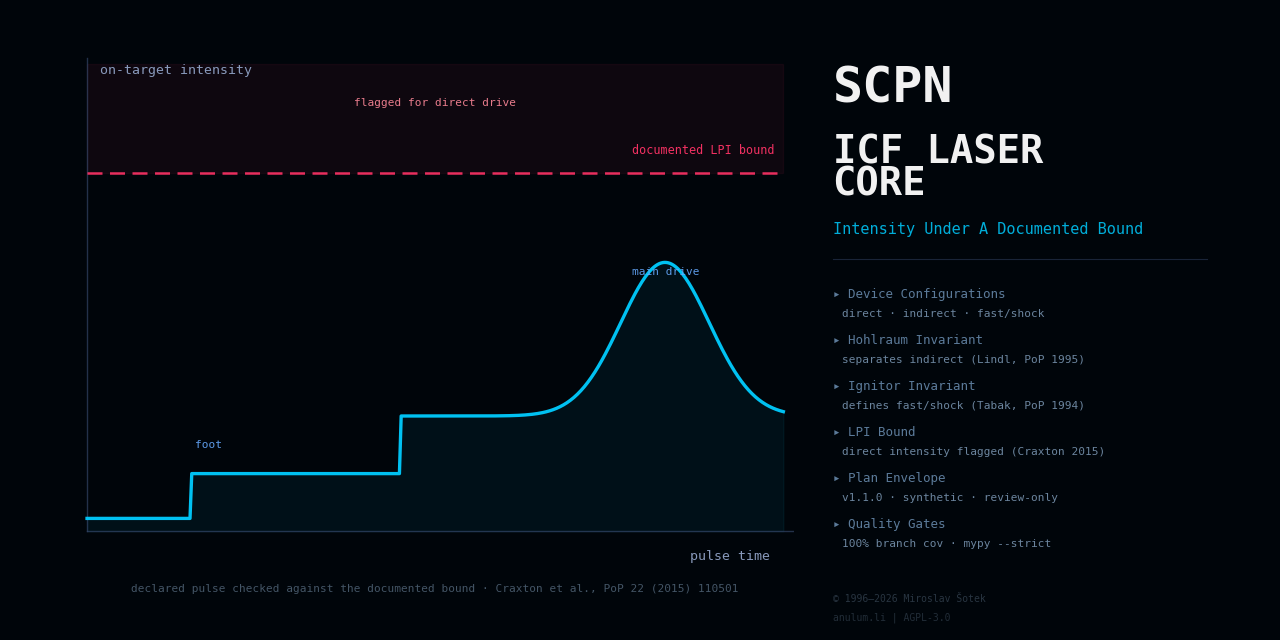
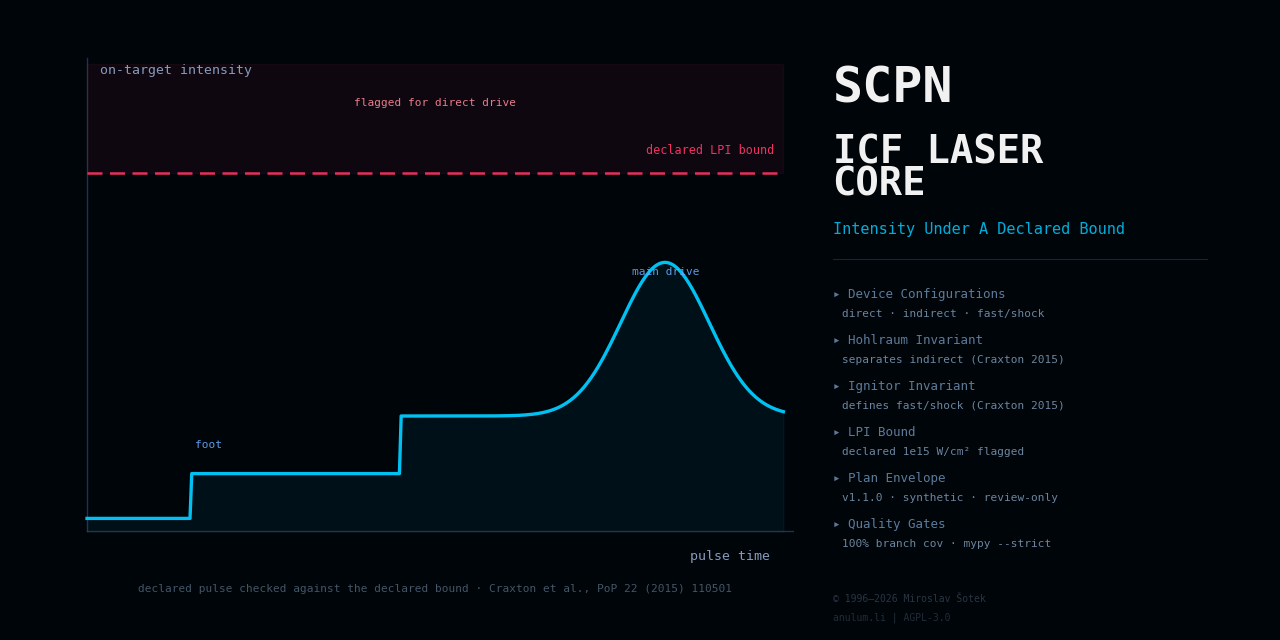
docs(configuration): bind the drive-scheme credits to the filed Craxton review
The configuration and parameter modules, ADR 0002, VALIDATION and the
header artwork credited the hohlraum and ignitor-pulse invariants to
Lindl, Phys. Plasmas 2 (1995) 3933, and Tabak et al., Phys. Plasmas 1
(1994) 1626, neither of which is on file, and said that laser-plasma
instabilities "dominate" above 10^15 W/cm^2, crediting that to the
filed Craxton et al., Phys. Plasmas 22 (2015) 110501.

Pages of the filed review (accepted manuscript, text read):
- PDF p. 8: indirect drive heats the inside of an enclosure known as a
  hohlraum;
- PDF p. 261 (Sec. XIV): fast ignition separates the compression and
  ignition phases;
- PDF p. 285 (Sec. XV): shock ignition adds a high-intensity spike to a
  hot-spot pulse;
- PDF p. 20 (Sec. III A): an ignition design at a peak intensity of
  8 x 10^14 W/cm^2; PDF p. 296: stimulated Raman backscatter of about 8 %
  at 0.9 x 10^15 and 36 % at 8 x 10^15 W/cm^2.

The review prints no single instability bound, so the 10^15 W/cm^2
bound is named declared and the printed values are quoted beside it;
the finding says "declared direct-drive" and its test asserts it. The
invariants cite the pages above. ADR 0002 gains a dated amendment. The
header labels follow and the three PNGs are regenerated (byte-identical
regeneration from the unchanged generator first; images viewed, a
clipped label shortened). No invariant, value or check changes.

Verification: ruff, format and mypy strict clean; targeted tests
[…]

diff --git a/src/scpn_icf_laser_core/configuration.py b/src/scpn_icf_laser_core/configuration.py
@@ -10,15 +10,22 @@
 
 A :class:`DeviceConfiguration` composes a validated laser driver and
 target declaration under exactly one of the three registry identifiers
-this repository owns. The drive-scheme class invariants are hard: the
-hohlraum separates indirect from direct drive (Lindl, PoP 2 (1995)
-3933) and the ignitor pulse defines fast/shock ignition (Tabak et al.,
-PoP 1 (1994) 1626). A direct-drive intensity above the documented
-laser-plasma-instability bound is flagged (Craxton et al., PoP 22
-(2015) 110501). Serialisation is canonical (sorted keys, no NaN or
-infinity accepted anywhere) and the SHA-256 digest of those bytes
-identifies the exact parameter set. The registry binding is a data pin
-only — this package never imports SCPN Phase Orchestrator code.
+this repository owns. The drive-scheme class invariants are hard. The
+filed review R. S. Craxton et al., Phys. Plasmas 22 (2015) 110501,
+describes indirect drive as heating the inside of an enclosure known as
+a hohlraum (accepted manuscript, PDF p. 8), fast ignition as separating
+the compression and ignition phases with a high-intensity laser (Sec.
+XIV, PDF p. 261), and shock ignition as a hot-spot pulse with an added
+high-intensity spike (Sec. XV, PDF p. 285); Lindl, PoP 2 (1995) 3933,
+and Tabak et al., PoP 1 (1994) 1626, are not on file. A direct-drive
+intensity above a declared 10^15 W/cm^2 bound is flagged; the review
+states no single bound, prints an ignition design at a peak intensity of
+8 x 10^14 W/cm^2 (Sec. III A, PDF p. 20) and reports stimulated Raman
+backscatter rising from about 8 % at 0.9 x 10^15 W/cm^2 to about 36 % at
+8 x 10^15 W/cm^2 (PDF p. 296). Serialisation is canonical (sorted keys,
+no NaN or infinity accepted anywhere) and the SHA-256 digest of those
+bytes identifies the exact parameter set. The registry binding is a data
+pin only — this package never imports SCPN Phase Orchestrator code.
 """
 
 from __future__ import annotations
@@ -180,8 +187,8 @@ class DeviceConfiguration:
         Returns
         -------
         tuple of ConsistencyFinding
-            Advisory findings from the documented estimates; empty when
-            a direct-drive intensity sits below the documented
+            Advisory findings from the declared estimates; empty when
+            a direct-drive intensity sits below the declared
             laser-plasma-instability bound. Findings are advisory
             instruments, not machine claims.
         """
@@ -194,7 +201,7 @@ class DeviceConfiguration:
                         field="driver.driver_energy_mj",
                         message=(
                             f"on-target intensity {intensity:.3g} W/cm^2 "
-                            "exceeds the documented direct-drive "
+                            "exceeds the declared direct-drive "
                             "laser-plasma-instability bound "
                             f"{DIRECT_DRIVE_LPI_BOUND_W_CM2:.0e} W/cm^2"
                         ),

diff --git a/docs/assets/generate_header.py b/docs/assets/generate_header.py
@@ -21,7 +21,7 @@ Outputs (written next to this script):
 - ``repo_header_drive_schemes.png`` — direct, indirect and fast/shock
   ignition side by side.
 - ``repo_header_lpi_bound.png`` — the shaped pulse under the
-  documented laser-plasma-instability bound.
+  declared laser-plasma-instability bound.
 
 Generation-time tooling only: requires ``numpy`` and ``matplotlib``,
 which are deliberately not part of the pinned development lock. Run as
@@ -50,9 +50,9 @@ WIDTH_IN, HEIGHT_IN, DPI = 12.8, 6.4, 100
 
 TITLE_METRICS: list[tuple[str, str]] = [
     ("Device Configurations", "direct · indirect · fast/shock"),
-    ("Hohlraum Invariant", "separates indirect (Lindl, PoP 1995)"),
-    ("Ignitor Invariant", "defines fast/shock (Tabak, PoP 1994)"),
-    ("LPI Bound", "direct intensity flagged (Craxton 2015)"),
+    ("Hohlraum Invariant", "separates indirect (Craxton 2015)"),
+    ("Ignitor Invariant", "defines fast/shock (Craxton 2015)"),
+    ("LPI Bound", "declared 1e15 W/cm² flagged"),
     ("Plan Envelope", "v1.1.0 · synthetic · review-only"),
     ("Quality Gates", "100% branch cov · mypy --strict"),
 ]
@@ -402,7 +402,7 @@ def generate_drive_schemes() -> None:
     ax.text(
         centre,
         -2.0,
-        "hohlraum X-ray bath · Lindl 1995",
+        "hohlraum X-ray bath · Craxton 2015",
         color="#445566",
         fontsize=7.5,
         fontfamily="monospace",
@@ -469,7 +469,7 @@ def generate_drive_schemes() -> None:
     ax.text(
         centre,
         -2.0,
-        "staged drive · Tabak 1994",
+        "staged drive · Craxton",
         color="#445566",
         fontsize=7.5,
         fontfamily="monospace",
@@ -537,7 +537,7 @@ def generate_lpi_bound() -> None:
     ax.text(
         8.9,
         y_bound + 0.3,
-        "documented LPI bound",
+        "declared LPI bound",
         color=RED,
         fontsize=8.5,
         fontfamily="monospace",
@@ -590,14 +590,14 @@ def generate_lpi_bound() -> None:
     ax.text(
         5.0,
         0.75,
-        "declared pulse checked against the documented bound · "
+        "declared pulse checked against the declared bound · "
         "Craxton et al., PoP 22 (2015) 110501",
         color="#445566",
         fontsize=8,
         fontfamily="monospace",
         ha="center",
     )
-    _text_panel(fig, "Intensity Under A Documented Bound")
+    _text_panel(fig, "Intensity Under A Declared Bound")
     _save(fig, plt, "repo_header_lpi_bound.png")
 
 

diff --git a/src/scpn_icf_laser_core/parameters.py b/src/scpn_icf_laser_core/parameters.py
@@ -11,9 +11,9 @@
 The derived quantity implements one standard estimate and nothing more:
 the sphere-averaged on-target intensity ``I = E / (tau 4 pi R^2)``. It
 is a rough consistency instrument with documented applicability bounds
-(direct-drive laser-plasma-instability regime; R. S. Craxton et al.,
-Phys. Plasmas 22 (2015) 110501); no claim about any real machine follows
-from it.
+(a declared direct-drive laser-plasma-instability bound; see the
+configuration module and the filed R. S. Craxton et al., Phys. Plasmas
+22 (2015) 110501); no claim about any real machine follows from it.
 """
 
 from __future__ import annotations

diff --git a/tests/test_configuration.py b/tests/test_configuration.py
@@ -102,6 +102,7 @@ def test_consistency_report_clean_and_finding() -> None:
     findings = hot.consistency_report()
     assert len(findings) == 1
     assert "laser-plasma-instability" in findings[0].message
+    assert "declared direct-drive" in findings[0].message
     indirect = synthetic_configuration(
         "laser_icf_indirect_drive", hohlraum=True, pulse_duration_ns=1.0
     )

diff --git a/docs/adr/0002-device-configuration-model.md b/docs/adr/0002-device-configuration-model.md
@@ -36,16 +36,22 @@ laser-ICF registry configurations this repository owns
    parameter set is a synthetic test fixture.
 3. Hard drive-scheme class invariants: `laser_icf_indirect_drive`
    requires a hohlraum and `laser_icf_direct_drive` forbids one — the
-   presence of the radiation enclosure is what separates the schemes
-   (J. D. Lindl, Phys. Plasmas 2 (1995) 3933);
+   presence of the radiation enclosure is what separates the schemes;
    `laser_icf_fast_or_shock_ignition` requires the separate ignitor
-   pulse that defines it (M. Tabak et al., Phys. Plasmas 1 (1994)
-   1626), and the other two classes forbid it.
+   pulse that defines it, and the other two classes forbid it. The
+   filed review R. S. Craxton et al., Phys. Plasmas 22 (2015) 110501,
+   describes indirect drive through a hohlraum (PDF p. 8), fast
+   ignition as separate compression and ignition phases (Sec. XIV,
+   PDF p. 261) and shock ignition as an added high-intensity spike
+   (Sec. XV, PDF p. 285).
 4. Derived quantity: the sphere-averaged on-target intensity
    ``I = E / (tau 4 pi R^2)``. Advisory finding, reported by
    `consistency_report()` and never clamped: a direct-drive intensity
-   above ``10^15 W/cm^2``, where laser-plasma instabilities dominate
-   (R. S. Craxton et al., Phys. Plasmas 22 (2015) 110501).
+   above a declared ``10^15 W/cm^2`` bound. Craxton et al. state no
+   single bound; they print an ignition design at 8 x 10^14 W/cm^2
+   (Sec. III A, PDF p. 20) and stimulated Raman backscatter rising from
+   about 8 % at 0.9 x 10^15 to about 36 % at 8 x 10^15 W/cm^2
+   (PDF p. 296).
 5. Repository-level `evidence_maturity` = the highest state claimed by
    any capability entry; per-capability states are the authoritative
    claim surface.
@@ -64,3 +70,14 @@ laser-ICF registry configurations this repository owns
   bang-time anchor, safety envelope) build on these types; maturity
   advances per capability only with the evidence the family standard
   requires.
+
+## Amendment 2026-10-31
+
+The class invariants were credited to J. D. Lindl, Phys. Plasmas 2
+(1995) 3933, and M. Tabak et al., Phys. Plasmas 1 (1994) 1626, neither
+of which is on file; they are now bound to pages of the filed Craxton et
+al. (2015) review. The text also said that laser-plasma instabilities
+"dominate" above 10^15 W/cm^2 and credited that to Craxton et al.; the
+review prints no such single bound, so the bound is named declared and
+the printed values beside it are quoted. No invariant, value or check
+changed.

diff --git a/VALIDATION.md b/VALIDATION.md
@@ -81,14 +81,18 @@ What is exercised, all under the 100 % statement-and-branch coverage gate:
   `TargetDeclaration`, `DeviceConfiguration`) rejecting non-finite
   values, non-positive extents, and the hard drive-scheme class
   invariants: hohlraum required for indirect drive and forbidden for
-  direct drive (Lindl, Phys. Plasmas 2 (1995) 3933), and the ignitor
-  pulse exactly for fast/shock ignition (Tabak et al., Phys. Plasmas 1
-  (1994) 1626) — every rejection branch is tested.
+  direct drive, and the ignitor pulse exactly for fast/shock ignition
+  (all three schemes as described in the filed Craxton et al. 2015
+  review, PDF pp. 8, 261 and 285; the Lindl 1995 and Tabak 1994 credits,
+  not on file, were removed on 2026-10-31) — every rejection branch is
+  tested.
 - The sphere-averaged on-target intensity `I = E / (tau 4 pi R^2)` as a
   documented derived quantity, with an advisory finding for direct-drive
-  intensities above the documented laser-plasma-instability bound
-  `1e15 W/cm^2` (Craxton et al., Phys. Plasmas 22 (2015) 110501),
-  reported and never clamped.
+  intensities above the declared laser-plasma-instability bound
+  `1e15 W/cm^2` (Craxton et al., Phys. Plasmas 22 (2015) 110501, print
+  no single bound: an ignition design at 8e14 W/cm^2, PDF p. 20, and SRS
+  backscatter of about 8 % at 0.9e15 and 36 % at 8e15 W/cm^2, PDF
+  p. 296), reported and never clamped.
 - Canonical serialisation (sorted keys, NaN/infinity rejected on both
   emit and parse), SHA-256 digest identity, and a strict round-trip
   parser that refuses unknown fields.
